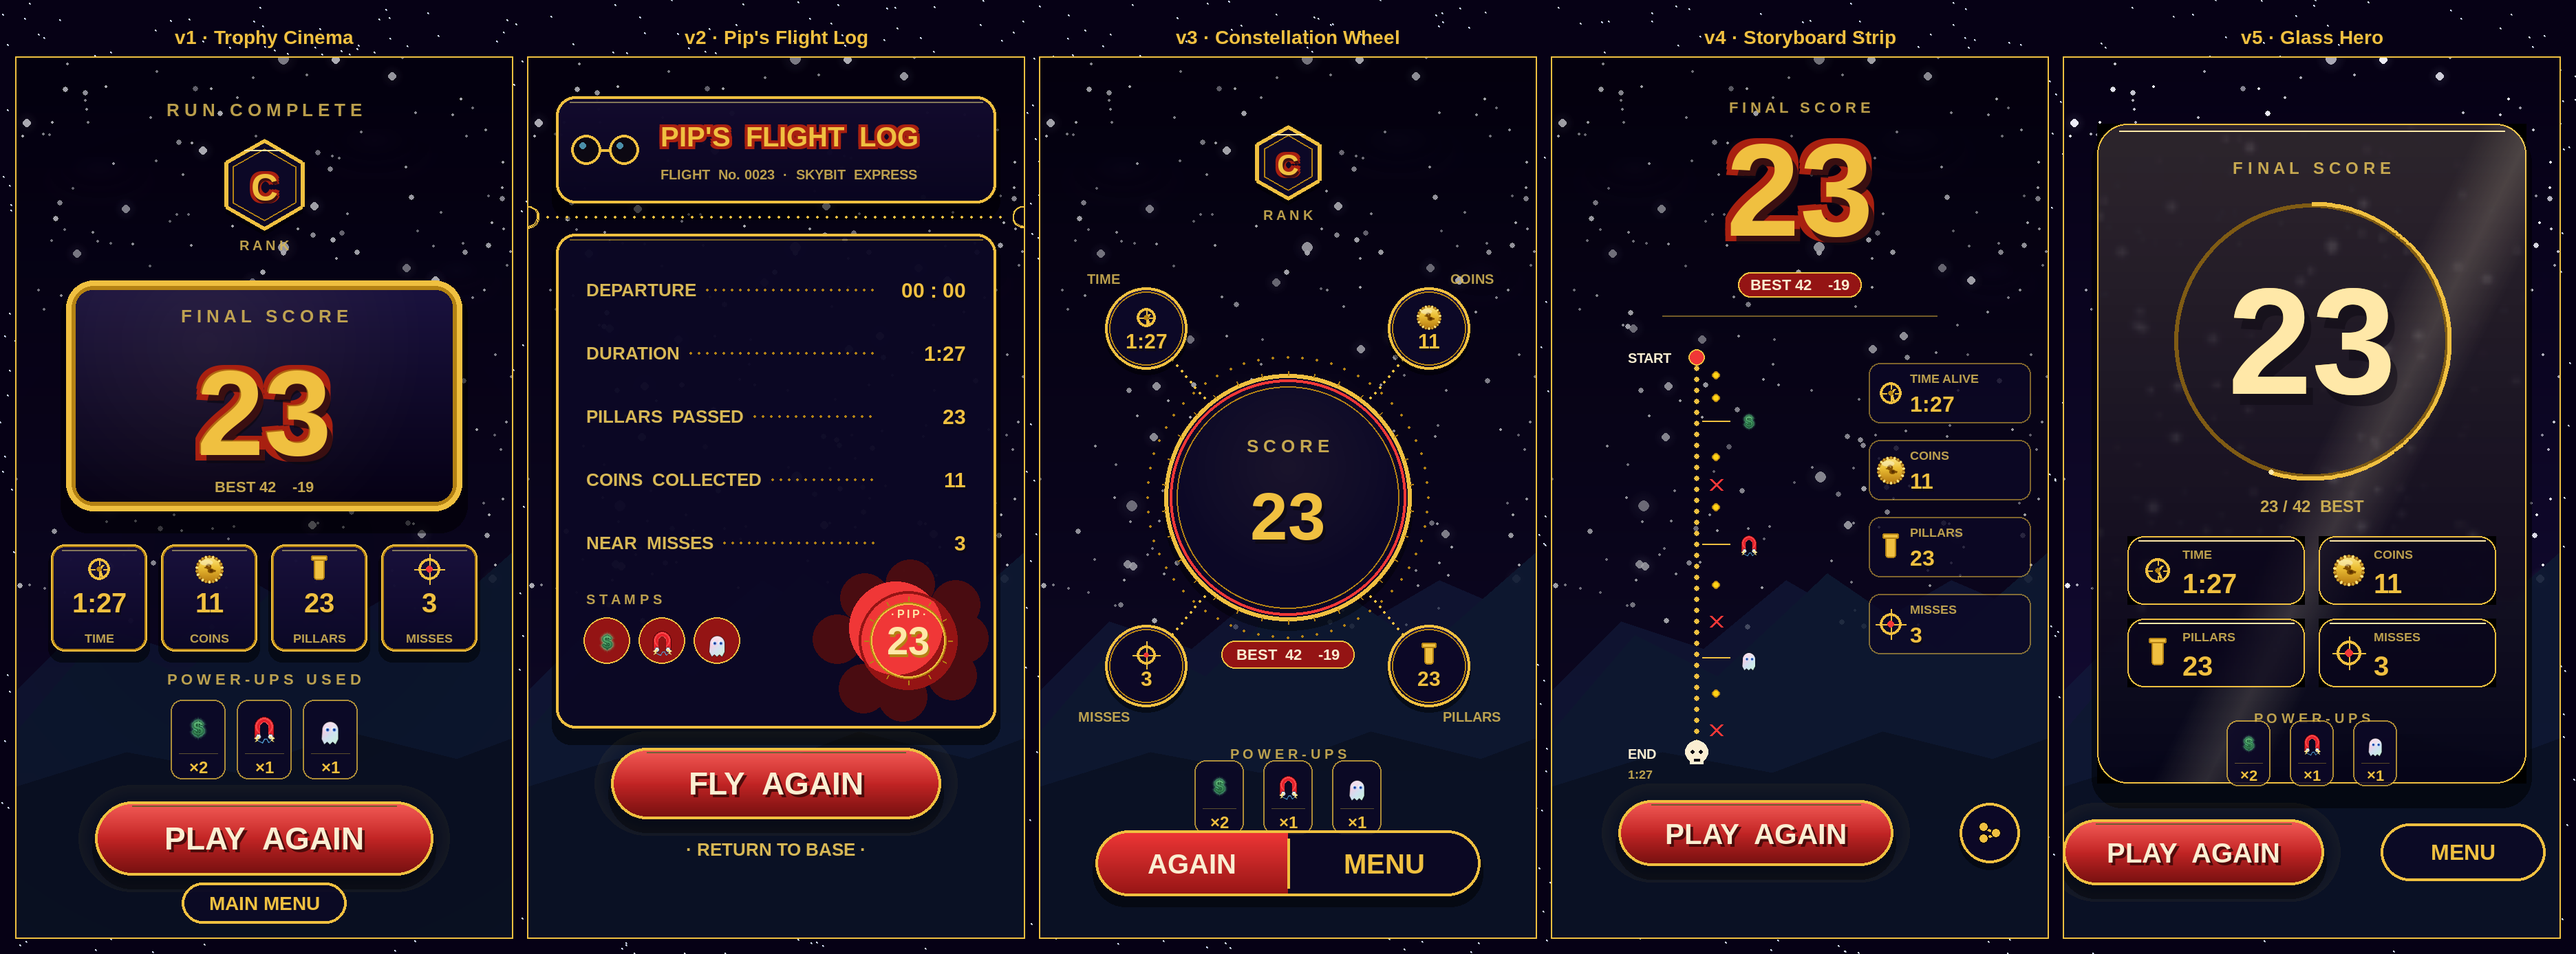
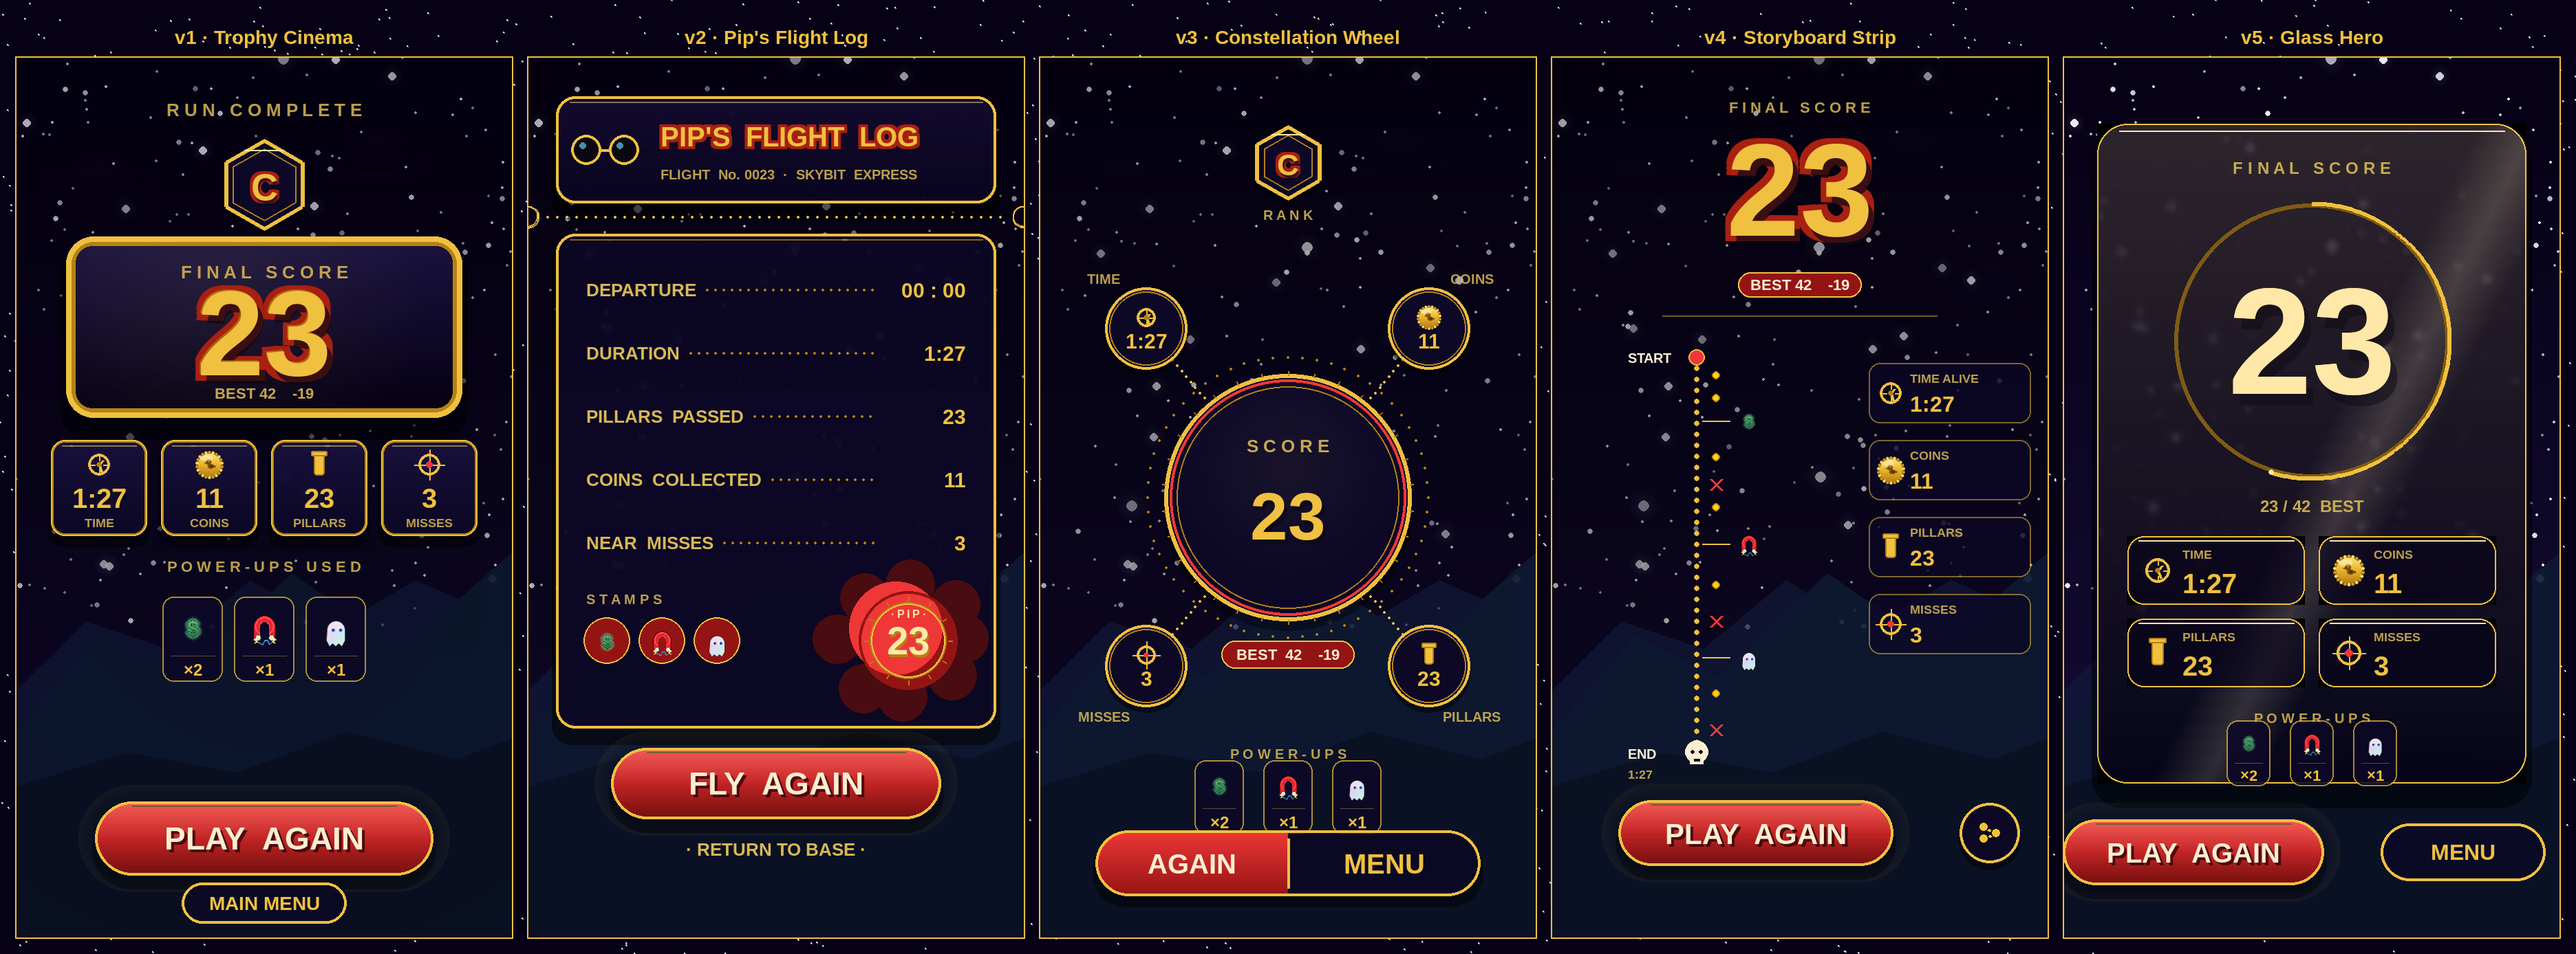
v1 layout: 2-row power-up grid, fixed chip size for 1..7 kinds
Previous attempts at fitting 7 kinds in one row required shrinking
each chip, which made the icons look small in busy runs. Fixed that
by wrapping to a second row when more than 4 kinds were picked. Chip
size is now constant (22) regardless of how many kinds appear — the
icons stay the same size whether the player grabbed 1 or 7.

Tightened the plaque, stat tile row, and power-up caption position
so the 2-row case fits cleanly above PLAY AGAIN. Single-row runs
just have a little more breathing room above the CTA — nothing
overlaps and the row stays vertically centred in its allocated band.

https://claude.ai/code/session_01BEgi1kRwzhWvvC8NuZNc1t

Changed region(s): [[0.0, 0.2478, 0.1875, 0.7745]]

diff --git a/tools/gen_run_summary_redesigns.py b/tools/gen_run_summary_redesigns.py
@@ -643,8 +643,8 @@ def draw_v1_trophy_cinema(surf, data):
               sub_label="R A N K")
 
     # Hero score plaque — large rounded engraved panel
-    plaque = pygame.Rect(36 * SCALE, 162 * SCALE,
-                         W - 72 * SCALE, 168 * SCALE)
+    plaque = pygame.Rect(36 * SCALE, 130 * SCALE,
+                         W - 72 * SCALE, 132 * SCALE)
     # Outer drop shadow
     sh = pygame.Surface((plaque.w + 8 * SCALE, plaque.h + 10 * SCALE),
                         pygame.SRCALPHA)
@@ -688,7 +688,7 @@ def draw_v1_trophy_cinema(surf, data):
     no = font(num_size, True).render(big_num, True, RED_OUTLINE)
     nsh = font(num_size, True).render(big_num, True, NEAR_BLACK)
     deep_inner = font(num_size, True).render(big_num, True, GOLD_DEEP)
-    nr = nf.get_rect(center=(W // 2, plaque.centery + 12 * SCALE))
+    nr = nf.get_rect(center=(W // 2, plaque.centery + 4 * SCALE))
     px = 4 * SCALE
     for ox in (-px, 0, px):
         for oy in (-px, 0, px):
@@ -721,39 +721,44 @@ def draw_v1_trophy_cinema(surf, data):
         ("crosshair", data["near_misses"], "MISSES"),
     ]
     tile_w = 70 * SCALE
-    tile_h = 78 * SCALE
+    tile_h = 70 * SCALE
     tile_gap = 10 * SCALE
     total_w = len(tiles) * tile_w + (len(tiles) - 1) * tile_gap
     start_x = (W - total_w) // 2
-    tile_y = 354 * SCALE
+    tile_y = 278 * SCALE
     for i, (k, v, lbl) in enumerate(tiles):
         r = pygame.Rect(start_x + i * (tile_w + tile_gap), tile_y,
                         tile_w, tile_h)
         stat_tile_chunky(surf, r, k, v, lbl)
 
-    # Power-ups bar — chip per kind that was actually picked, with a
-    # count badge ("x2") on every chip. Sized so up to 7 different
-    # kinds (triple, magnet, slowmo, kfc, ghost, grow, surprise) all
-    # fit in the bar without wrapping.
+    # Power-ups grid — chip per kind that was actually picked. The chip
+    # size is *fixed* regardless of how many kinds were grabbed; if more
+    # than 4 kinds appear, the row wraps to a second row so each icon
+    # always reads at the same comfortable size.
     pu = [(k, c) for k, c in data["powerups_picked"] if c and c > 0]
     if pu:
-        bar_y = 458 * SCALE
+        cap_y = 370 * SCALE
         cap2 = font(11, True).render("P O W E R - U P S   U S E D",
                                      True, GOLD_MUTED)
         cap2.set_alpha(220)
-        surf.blit(cap2, cap2.get_rect(center=(W // 2, bar_y - 6 * SCALE)))
-        # Fixed chip size — comfortably fits all 7 power-up kinds in
-        # a single centred row at the 360-wide game canvas (7 × 40 + 6
-        # × 8 = 328 logical px, leaving 32 px total margin).
-        chip_size, chip_gap = 20, 8
+        surf.blit(cap2, cap2.get_rect(center=(W // 2, cap_y)))
+        chip_size, chip_gap = 22, 8
+        max_per_row = 4
         chip_w = chip_size * 2 * SCALE
+        chip_h = chip_w + 18 * SCALE
         chip_pitch = chip_w + chip_gap * SCALE
-        total_cw = len(pu) * chip_w + (len(pu) - 1) * chip_gap * SCALE
-        sx = (W - total_cw) // 2 + chip_w // 2
-        for i, (kind, count) in enumerate(pu):
-            powerup_chip(surf, sx + i * chip_pitch,
-                         bar_y + 38 * SCALE,
-                         kind, count, size=chip_size)
+        row_pitch = chip_h + 8 * SCALE
+        rows = [pu[i:i + max_per_row]
+                for i in range(0, len(pu), max_per_row)]
+        rows_top = cap_y + 22 * SCALE
+        for ri, row in enumerate(rows):
+            total_cw = (len(row) * chip_w
+                        + max(0, len(row) - 1) * chip_gap * SCALE)
+            sx = (W - total_cw) // 2 + chip_w // 2
+            row_cy = rows_top + ri * row_pitch + chip_h // 2
+            for i, (kind, count) in enumerate(row):
+                powerup_chip(surf, sx + i * chip_pitch, row_cy,
+                             kind, count, size=chip_size)
 
     # Primary CTA + secondary
     pill(surf, (W // 2, 568 * SCALE), "PLAY  AGAIN",
